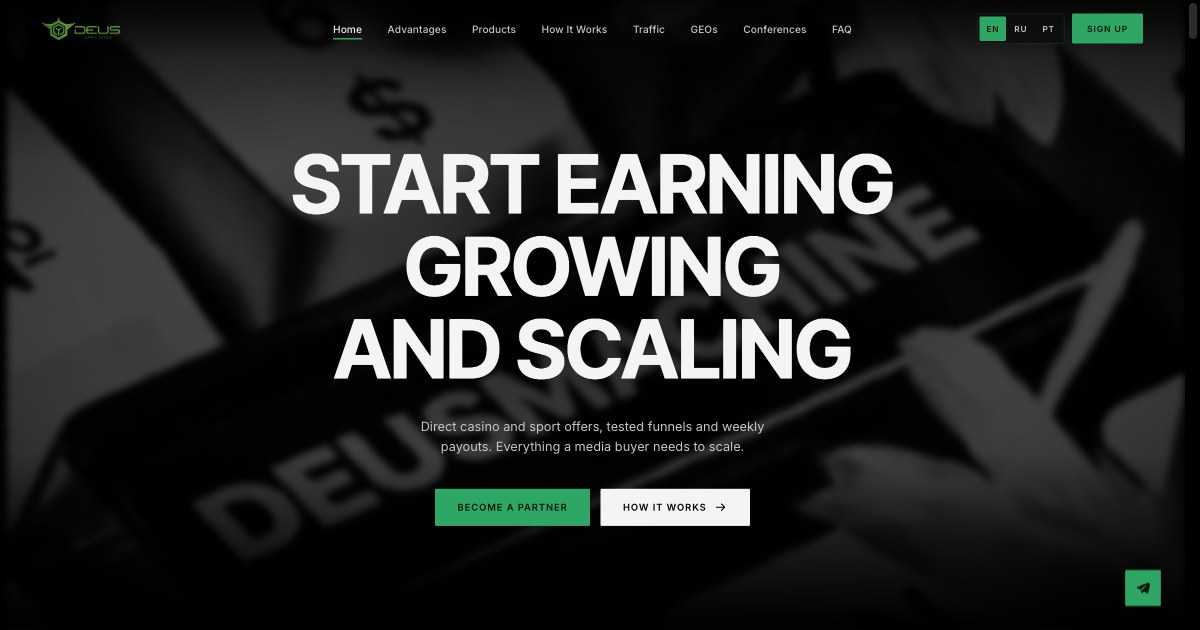
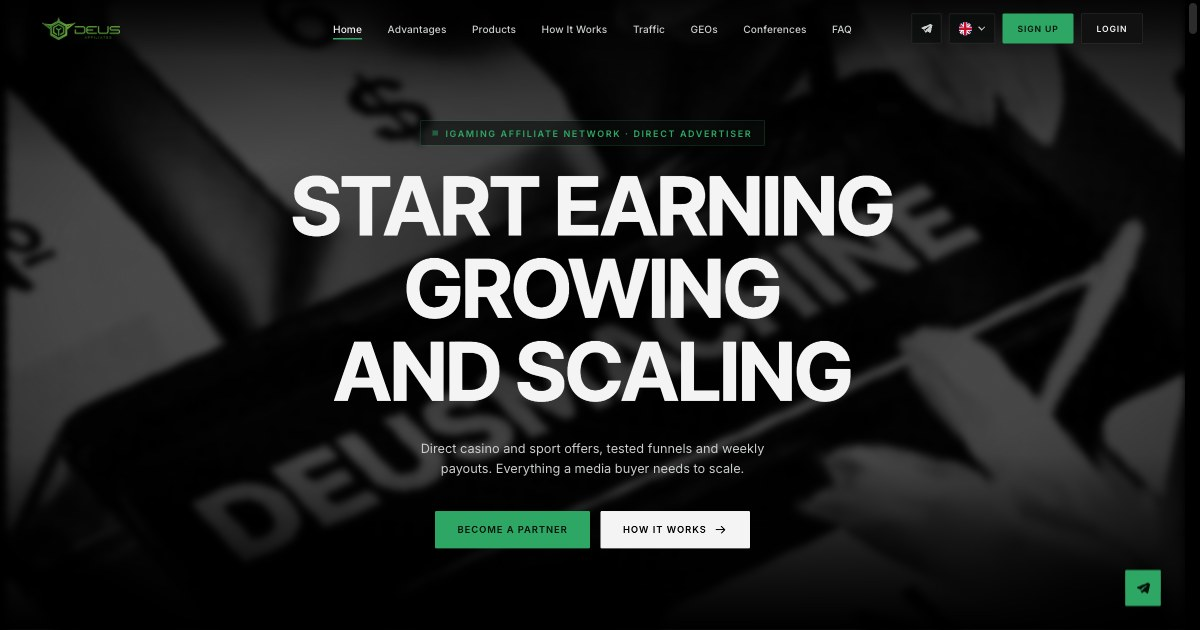
feat: hero identity eyebrow — the site names its industry in the first breath
'iGaming Affiliate Network · Direct Advertiser' chip above the
headline (green border, pulsing dot), woven into both entrance
timelines and the reduced-motion fallback, translated in all 6
languages. OG image regenerated.

diff --git a/styles.css b/styles.css
@@ -455,6 +455,24 @@ html { scrollbar-color: #2c2c2c var(--black); }
   max-width: 1100px;
 }
 
+.hero__eyebrow {
+  display: inline-flex;
+  align-items: center;
+  gap: 10px;
+  border: 1px solid rgba(46,166,100,.4);
+  border-radius: 2px;
+  background: rgba(10, 14, 12, .6);
+  padding: 9px 16px;
+  margin-bottom: 26px;
+  font-size: 12px;
+  font-weight: 600;
+  letter-spacing: .18em;
+  text-transform: uppercase;
+  color: var(--green);
+}
+.hero__eyebrow i { width: 7px; height: 7px; background: var(--green); animation: geopulse-dot 2s ease-in-out infinite; }
+.js .hero__eyebrow { opacity: 0; }
+
 .hero__title {
   font-family: var(--font-display);
   font-weight: 700;
@@ -2236,5 +2254,5 @@ html { scrollbar-color: #2c2c2c var(--black); }
 
 @media (prefers-reduced-motion: reduce) {
   .js .hero__title .l > span { transform: none; }
-  .js .hero__sub, .js .hero__cta { opacity: 1; }
+  .js .hero__sub, .js .hero__cta, .js .hero__eyebrow { opacity: 1; }
 }

diff --git a/i18n.js b/i18n.js
@@ -88,6 +88,7 @@ export const translations = {
     'online': 'онлайн',
     'Message…': 'Сообщение…',
     'Payout sent': 'Выплата отправлена',
+    'iGaming Affiliate Network · Direct Advertiser': 'Партнёрская сеть iGaming · Прямой рекламодатель',
     'Your team': 'Наша команда',
     'The people behind your deals': 'Люди, которые решают по вашим условиям',
     'Real managers, direct on Telegram. Terms, caps and creatives get decided in a chat, not a ticket queue.': 'Живые менеджеры напрямую в Telegram. Условия, капы и креативы решаются в чате, а не в тикетах.',
@@ -305,6 +306,7 @@ export const translations = {
     'online': 'online',
     'Message…': 'Mensagem…',
     'Payout sent': 'Pagamento enviado',
+    'iGaming Affiliate Network · Direct Advertiser': 'Rede de afiliados iGaming · Anunciante direto',
     'Your team': 'Nossa equipe',
     'The people behind your deals': 'As pessoas por trás dos seus acordos',
     'Real managers, direct on Telegram. Terms, caps and creatives get decided in a chat, not a ticket queue.': 'Gerentes de verdade, direto no Telegram. Condições, caps e criativos se decidem no chat, não em fila de ticket.',
@@ -522,6 +524,7 @@ export const translations = {
     'online': 'en línea',
     'Message…': 'Mensaje…',
     'Payout sent': 'Pago enviado',
+    'iGaming Affiliate Network · Direct Advertiser': 'Red de afiliados iGaming · Anunciante directo',
     'Your team': 'Nuestro equipo',
     'The people behind your deals': 'Las personas detrás de tus deals',
     'Real managers, direct on Telegram. Terms, caps and creatives get decided in a chat, not a ticket queue.': 'Managers reales, directo en Telegram. Condiciones, caps y creativos se deciden en un chat, no en una cola de tickets.',
@@ -738,6 +741,7 @@ export const translations = {
     'online': 'çevrimiçi',
     'Message…': 'Mesaj…',
     'Payout sent': 'Ödeme gönderildi',
+    'iGaming Affiliate Network · Direct Advertiser': 'iGaming Affiliate Ağı · Direkt Reklamveren',
     'Your team': 'Ekibiniz',
     'The people behind your deals': 'Anlaşmalarınızın arkasındaki insanlar',
     'Real managers, direct on Telegram. Terms, caps and creatives get decided in a chat, not a ticket queue.': 'Gerçek menajerler, direkt Telegram’da. Şartlar, cap’ler ve kreatifler ticket kuyruğunda değil, sohbette kararlaştırılır.',
@@ -954,6 +958,7 @@ export const translations = {
     'online': 'online',
     'Message…': 'Nachricht…',
     'Payout sent': 'Auszahlung gesendet',
+    'iGaming Affiliate Network · Direct Advertiser': 'iGaming-Affiliate-Netzwerk · Direct Advertiser',
     'Your team': 'Dein Team',
     'The people behind your deals': 'Die Menschen hinter deinen Deals',
     'Real managers, direct on Telegram. Terms, caps and creatives get decided in a chat, not a ticket queue.': 'Echte Manager, direkt auf Telegram. Konditionen, Caps und Creatives werden im Chat entschieden, nicht in der Ticket-Warteschlange.',
@@ -1170,6 +1175,7 @@ export const translations = {
     'online': 'en ligne',
     'Message…': 'Message…',
     'Payout sent': 'Paiement envoyé',
+    'iGaming Affiliate Network · Direct Advertiser': "Réseau d'affiliation iGaming · Annonceur direct",
     'Your team': 'Votre équipe',
     'The people behind your deals': 'Les personnes derrière vos deals',
     'Real managers, direct on Telegram. Terms, caps and creatives get decided in a chat, not a ticket queue.': 'De vrais managers, en direct sur Telegram. Conditions, caps et créas se décident dans un chat, pas dans une file de tickets.',

diff --git a/main.js b/main.js
@@ -185,6 +185,7 @@ const heroEntrance = () => {
   if (cine) tl.fromTo(document.documentElement, { '--cineblur': '18px' }, { '--cineblur': '5px', duration: 2.1, ease: 'expo.out' }, 0);
   tl.to('.hero__bar--top', { yPercent: -101, duration: 1.05, ease: 'power4.inOut' }, 0.6)
     .to('.hero__bar--bottom', { yPercent: 101, duration: 1.05, ease: 'power4.inOut' }, 0.6)
+    .fromTo('.hero__eyebrow', { y: 14, opacity: 0 }, { y: 0, opacity: 1, duration: 0.7, ease: 'power3.out' }, 0.5)
     .to('.hero__title .l > span', { y: 0, duration: 1.15, stagger: 0.09 }, 0.55)
     .fromTo('.hero__sub', { y: 26, opacity: 0 }, { y: 0, opacity: 1, duration: 0.9, ease: 'power3.out' }, 1.0)
     .fromTo('.hero__cta', { y: 26, opacity: 0 }, { y: 0, opacity: 1, duration: 0.9, ease: 'power3.out' }, 1.12);
@@ -201,6 +202,7 @@ const returning = (() => {
 const heroQuickEntrance = () => {
   gsap.timeline({ defaults: { ease: 'power3.out' }, onComplete: () => { startIdleCinema(); startExitShot(); } })
     .from('.hero__poster', { scale: 1.12, opacity: 0, duration: 0.9, ease: 'power2.out' }, 0)
+    .fromTo('.hero__eyebrow', { y: 10, opacity: 0 }, { y: 0, opacity: 1, duration: 0.5 }, 0.05)
     .to('.hero__title .l > span', { y: 0, duration: 0.8, stagger: 0.06 }, 0.05)
     .fromTo('.hero__sub', { y: 18, opacity: 0 }, { y: 0, opacity: 1, duration: 0.6 }, 0.3)
     .fromTo('.hero__cta', { y: 18, opacity: 0 }, { y: 0, opacity: 1, duration: 0.6 }, 0.4);
@@ -227,7 +229,7 @@ if (!reduced && returning) {
 } else {
   loader.remove();
   document.querySelectorAll('.hero__title .l > span').forEach(el => el.style.transform = 'none');
-  document.querySelectorAll('.hero__sub, .hero__cta').forEach(el => el.style.opacity = 1);
+  document.querySelectorAll('.hero__sub, .hero__cta, .hero__eyebrow').forEach(el => el.style.opacity = 1);
 }
 
 /* Poster mouse parallax (bw + color layers move as one so they stay aligned) */

diff --git a/index.html b/index.html
@@ -140,6 +140,7 @@
       <div class="hero__bar hero__bar--bottom" aria-hidden="true"></div>
 
       <div class="hero__content">
+        <p class="hero__eyebrow"><i></i>iGaming Affiliate Network · Direct Advertiser</p>
         <h1 class="hero__title">
           <span class="l"><span>Start Earning</span></span>
           <span class="l"><span>Growing</span></span>